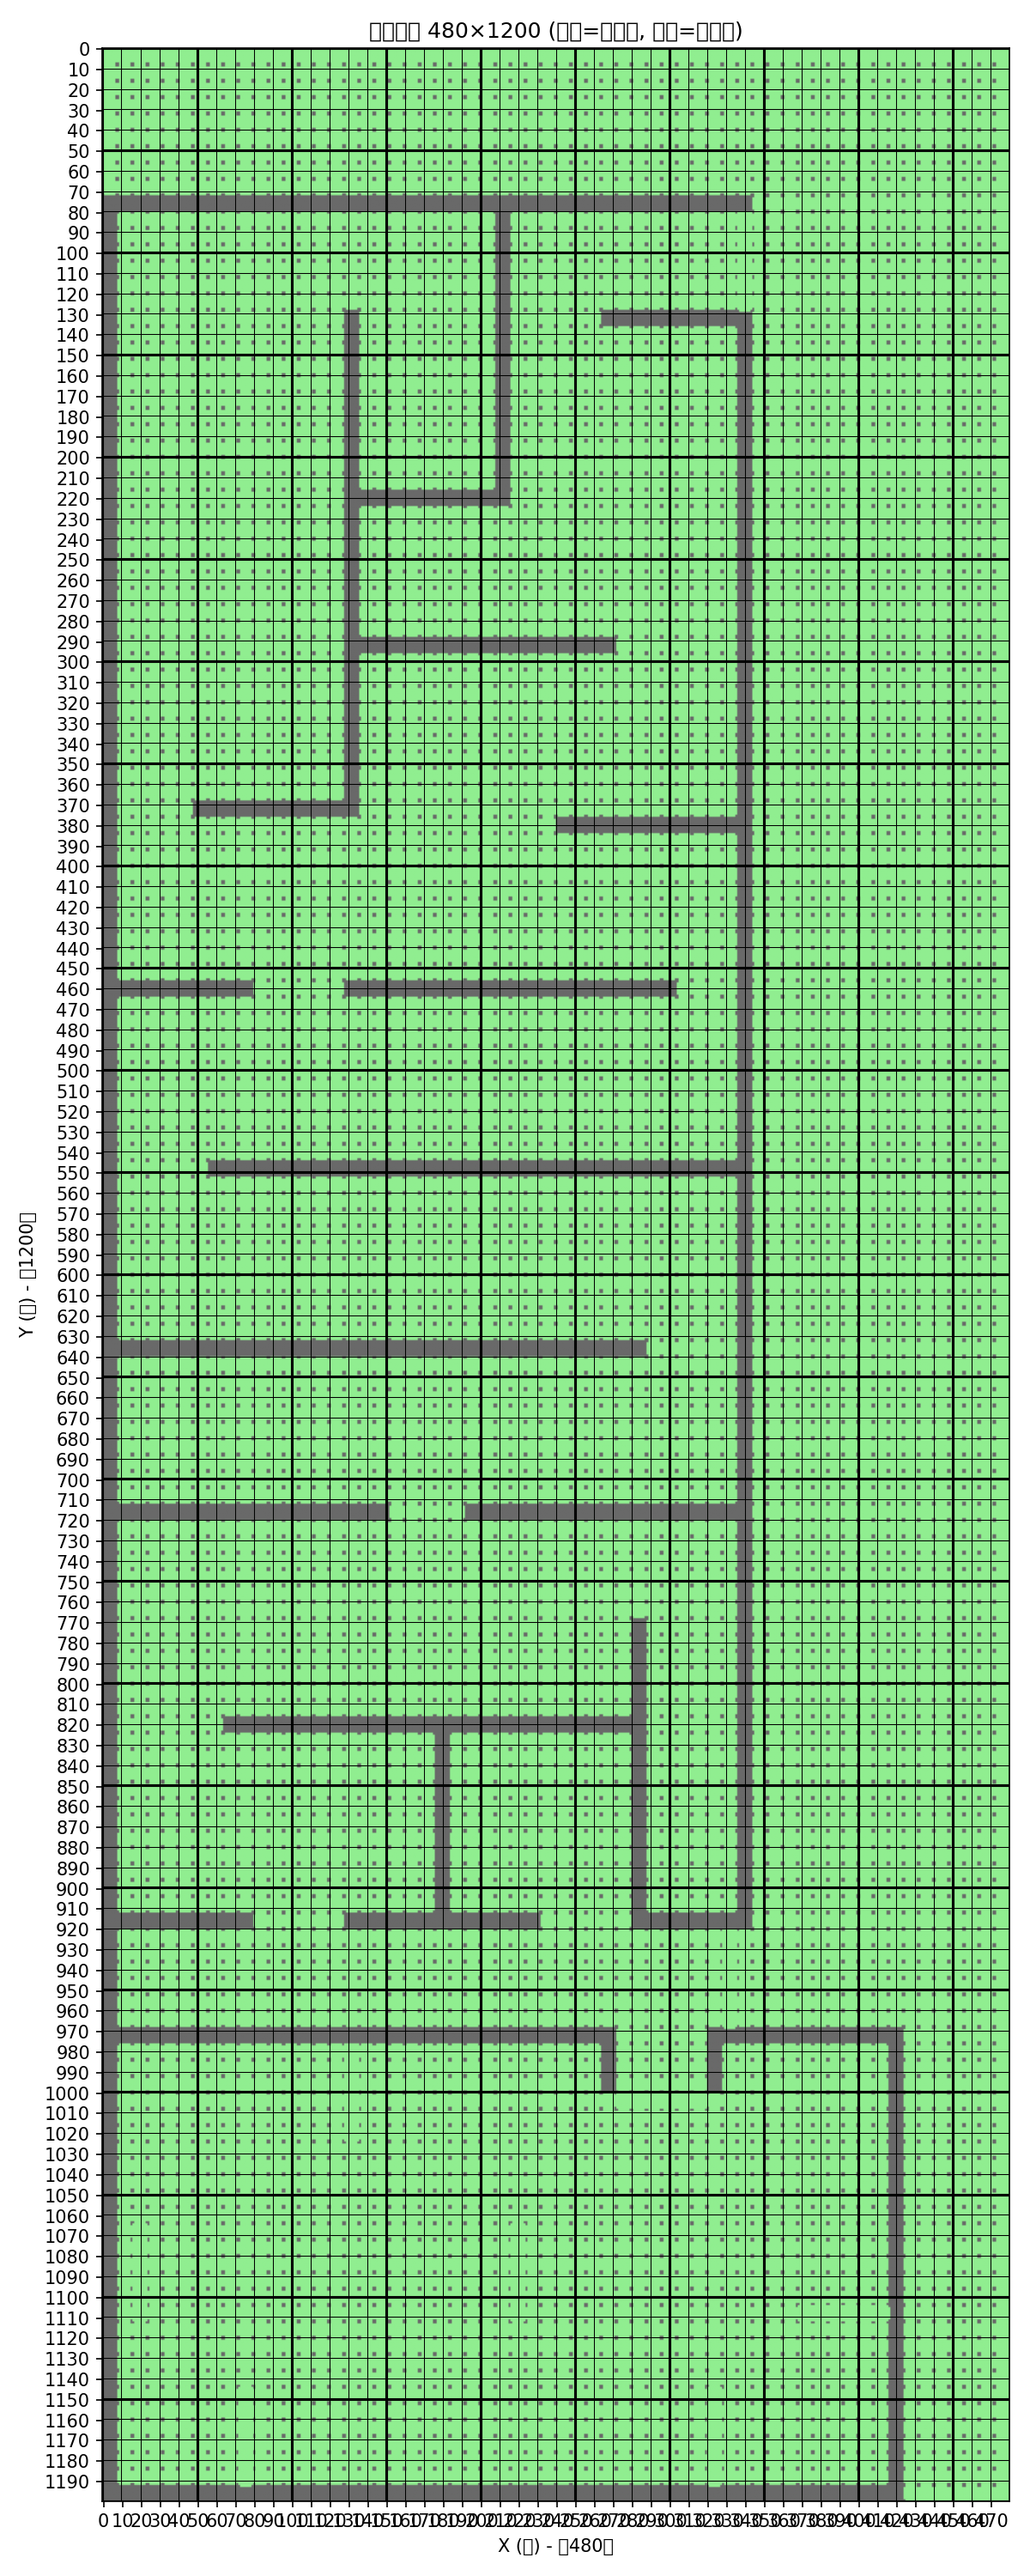
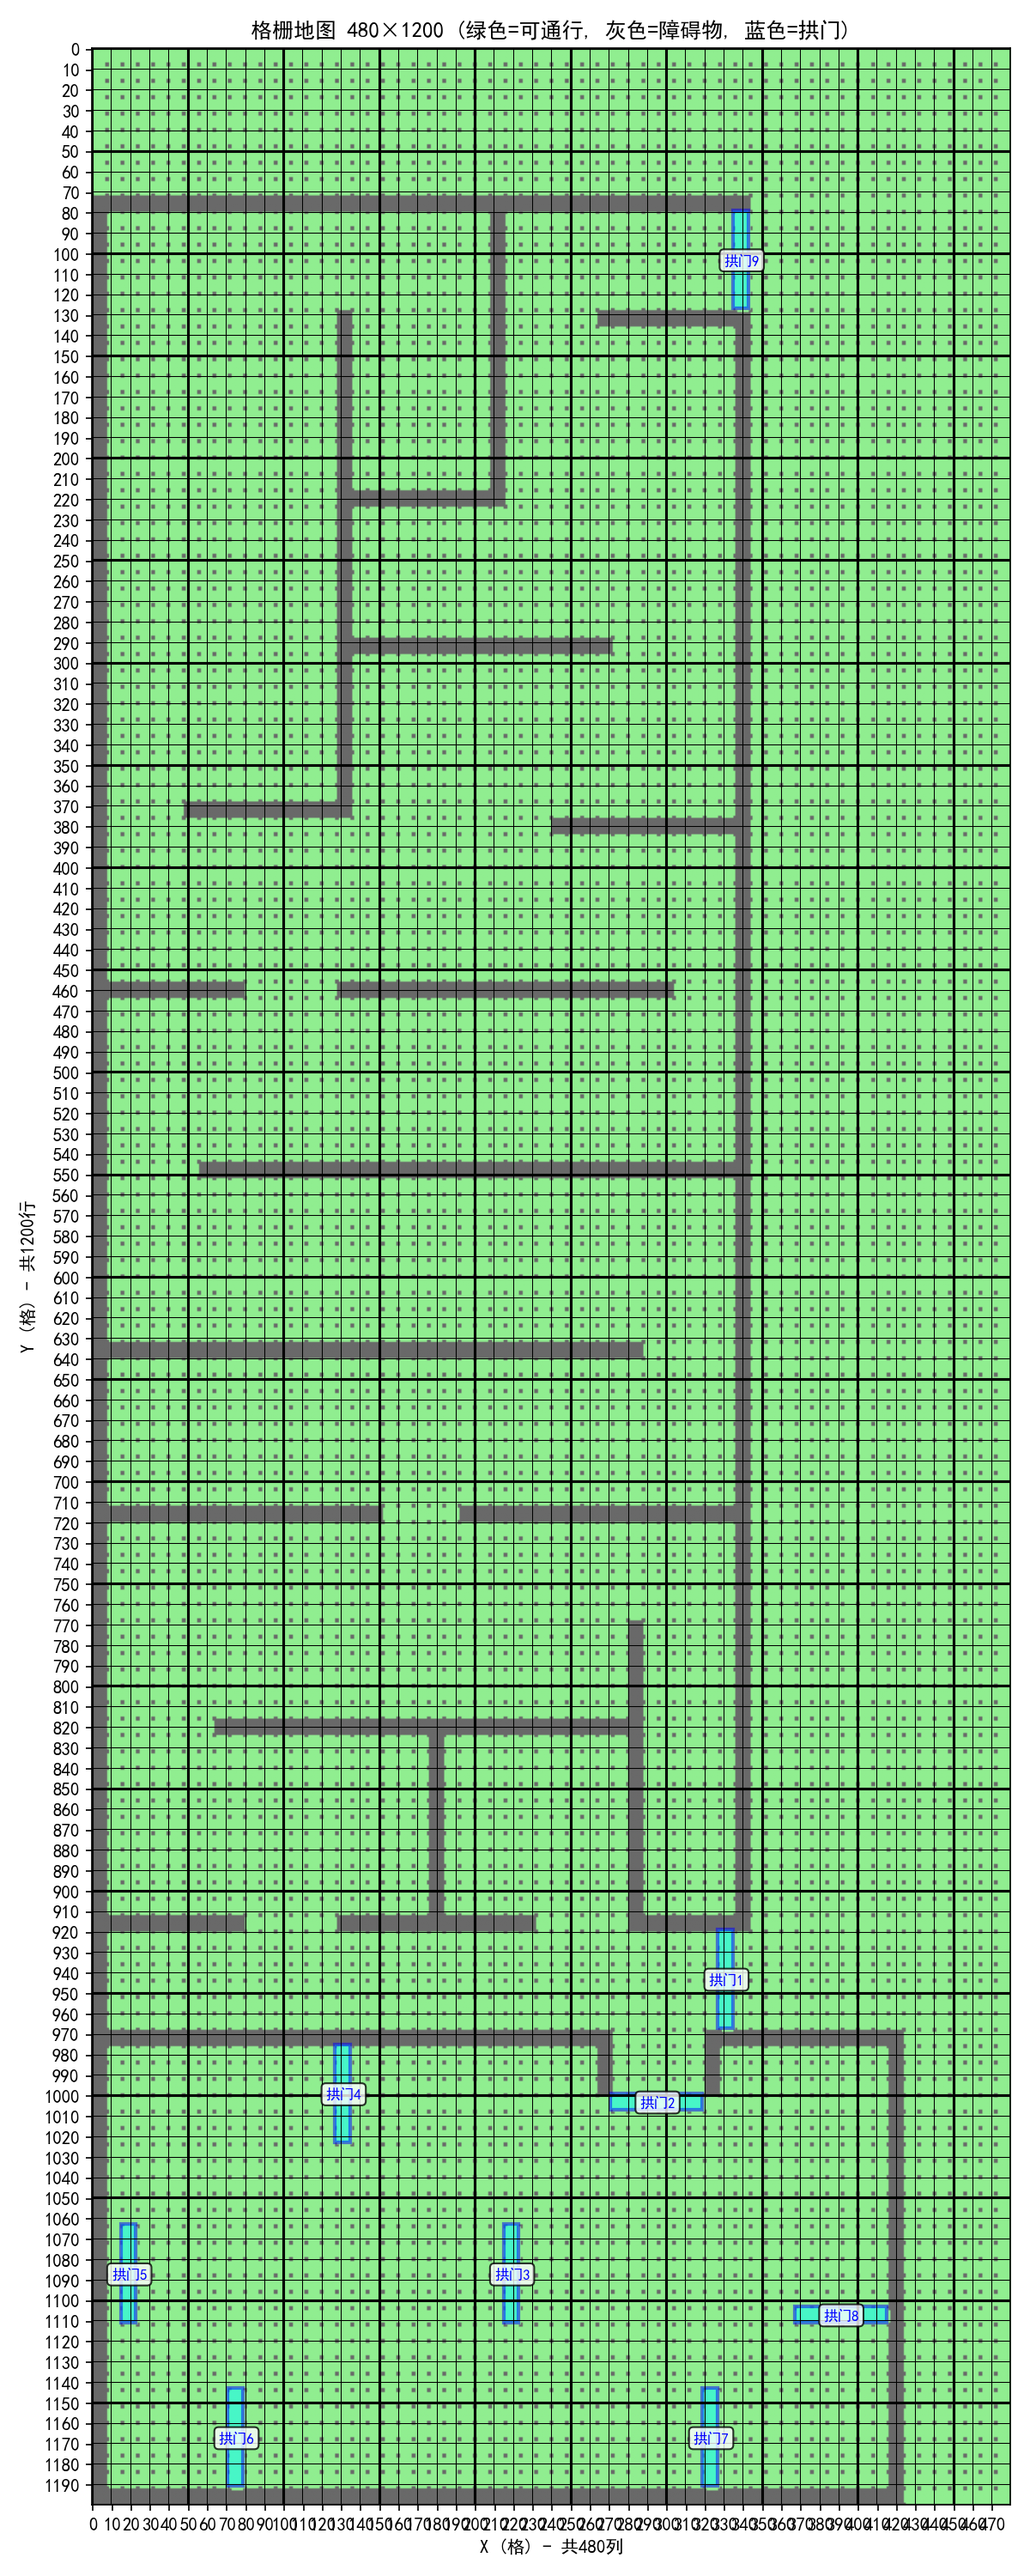
前端加入降落逻辑 前后端共享token

diff --git a/frontend/src/views/MainControl.vue b/frontend/src/views/MainControl.vue
@@ -212,6 +212,20 @@
                     云台复位
                   </el-button>
                 </div>
+
+                <!-- 降落测试按钮 -->
+                <div class="landing-buttons">
+                  <h4>降落测试</h4>
+                  <el-button type="success" @click="startLandingTest">
+                    开始降落测试
+                  </el-button>
+                  <el-button type="info" @click="getLandingStatusTest">
+                    获取降落状态
+                  </el-button>
+                  <el-button type="danger" @click="cancelLandingTest">
+                    取消降落
+                  </el-button>
+                </div>
               </div>
             </el-tab-pane>
           </el-tabs>
@@ -251,9 +265,10 @@
 </template>
 
 <script setup>
-import { ref, onMounted, onUnmounted } from 'vue'
-import { ElMessage } from 'element-plus'
-import { officialServerAPI, WebSocketManager, CONTROL_CHANNELS, CONTROL_VALUES } from '../services/officialAPI'
+import {onMounted, onUnmounted, ref} from 'vue'
+import {ElMessage} from 'element-plus'
+import {CONTROL_CHANNELS, officialServerAPI, WebSocketManager} from '../services/officialAPI'
+import {Camera, DataAnalysis, Monitor, Operation} from "@element-plus/icons-vue";
 
 // WebSocket管理
 const wsManager = new WebSocketManager()
@@ -373,9 +388,8 @@ const captureImage = async () => {
       ElMessage.error('未获取到认证token，请重新认证')
       return
     }
-    
-    const imageUrl = await officialServerAPI.captureImage(token)
-    capturedImage.value = imageUrl
+
+    capturedImage.value = await officialServerAPI.captureImage(token)
     ElMessage.success('图像抓拍成功')
   } catch (error) {
     ElMessage.error('图像抓拍失败：' + error.message)
@@ -389,6 +403,44 @@ const clearImage = () => {
   if (capturedImage.value) {
     URL.revokeObjectURL(capturedImage.value)
     capturedImage.value = null
+  }
+}
+
+// 开始降落测试
+const startLandingTest = async () => {
+  try {
+    const result = await officialServerAPI.startLanding(0)
+    if (result.status === 'success') {
+      ElMessage.success(result.message)
+    } else {
+      ElMessage.error(result.message)
+    }
+  } catch (error) {
+    ElMessage.error(error.message)
+  }
+}
+
+// 获取降落状态
+const getLandingStatusTest = async () => {
+  try {
+    const result = await officialServerAPI.getLandingStatus()
+    ElMessage.info(`降落状态: ${result.status}, 错误信息: ${result.error_message || '无'}`)
+  } catch (error) {
+    ElMessage.error(error.message)
+  }
+}
+
+// 取消降落
+const cancelLandingTest = async () => {
+  try {
+    const result = await officialServerAPI.cancelLanding()
+    if (result.status === 'success') {
+      ElMessage.success(result.message)
+    } else {
+      ElMessage.error(result.message)
+    }
+  } catch (error) {
+    ElMessage.error(error.message)
   }
 }
 
@@ -491,6 +543,22 @@ onUnmounted(() => {
   gap: 10px;
   flex-wrap: wrap;
   margin-top: 20px;
+}
+
+.landing-buttons {
+  display: flex;
+  gap: 10px;
+  flex-wrap: wrap;
+  margin-top: 20px;
+  padding-top: 20px;
+  border-top: 1px solid #e4e7ed;
+}
+
+.landing-buttons h4 {
+  width: 100%;
+  margin-bottom: 10px;
+  font-size: 14px;
+  font-weight: 500;
 }
 
 .image-container {

diff --git a/frontend/src/services/officialAPI.js b/frontend/src/services/officialAPI.js
@@ -61,6 +61,38 @@ export const officialServerAPI = {
     } catch (error) {
       throw new Error("抓拍失败：" + error.message)
     }
+  },
+
+  // 开始降落
+  startLanding: async (targetArucoId = 0) => {
+    try {
+      const response = await officialAPI.post('/landing/start', {
+        target_aruco_id: targetArucoId
+      })
+      return response.data
+    } catch (error) {
+      throw new Error("开始降落失败：" + error.message)
+    }
+  },
+
+  // 获取降落状态
+  getLandingStatus: async () => {
+    try {
+      const response = await officialAPI.get('/landing/status')
+      return response.data
+    } catch (error) {
+      throw new Error("获取降落状态失败：" + error.message)
+    }
+  },
+
+  // 取消降落
+  cancelLanding: async () => {
+    try {
+      const response = await officialAPI.post('/landing/cancel')
+      return response.data
+    } catch (error) {
+      throw new Error("取消降落失败：" + error.message)
+    }
   }
 }
 

diff --git a/frontend/src/views/AuthView.vue b/frontend/src/views/AuthView.vue
@@ -27,6 +27,8 @@ import { ref } from 'vue'
 import { useRouter } from 'vue-router'
 import { ElMessage } from 'element-plus'
 import { officialServerAPI } from '../services/officialAPI'
+import { authAPI } from '../services/api'
+import {Key} from "@element-plus/icons-vue";
 
 const router = useRouter()
 
@@ -44,8 +46,11 @@ const handleLogin = async () => {
     // 保存token到localStorage
     localStorage.setItem('official_token', token)
     
+    // 将token传递给后端
+    await authAPI.setFrontendToken(token)
+    
     ElMessage.success('认证成功')
-    router.push('/control')
+    await router.push('/control')
   } catch (error) {
     ElMessage.error('认证失败：' + error.message)
   } finally {

diff --git a/frontend/src/services/api.js b/frontend/src/services/api.js
@@ -43,6 +43,14 @@ export const authAPI = {
   // 获取Token
   getToken: () => {
     return api.post('/api/auth/token')
+  },
+  
+  // 设置前端Token
+  setFrontendToken: (token, expiresIn = 7200) => {
+    return api.post('/api/auth/token/frontend', {
+      token,
+      expires_in: expiresIn
+    })
   }
 }
 

diff --git a/backend/app/services/landing_service.py b/backend/app/services/landing_service.py
@@ -224,7 +224,6 @@ class LandingService:
             logger.info("开始检测Aruco码")
             self.status = LandingStatus.DETECTING
             detection_count = 0
-            aruco_position = None
             
             while detection_count < self.detection_threshold:
                 logger.debug("正在捕获图像...")
@@ -234,7 +233,6 @@ class LandingService:
                     position = self._detect_aruco(image_data)
                     if position:
                         logger.info(f"检测到Aruco码，位置: {position}")
-                        aruco_position = position
                         detection_count += 1
                         self.monitor.record_detection(True)
                         logger.info(f"Aruco码检测计数: {detection_count}/{self.detection_threshold}")
@@ -369,7 +367,7 @@ class LandingService:
                         center_x = int((corner[0][0] + corner[1][0] + corner[2][0] + corner[3][0]) / 4)
                         center_y = int((corner[0][1] + corner[1][1] + corner[2][1] + corner[3][1]) / 4)
                         logger.info(f"找到目标Aruco码ID: {self.target_aruco_id}，中心坐标: ({center_x}, {center_y})")
-                        return (center_x, center_y)
+                        return center_x, center_y
                 logger.warning(f"未找到目标Aruco码ID: {self.target_aruco_id}")
             else:
                 logger.debug("未检测到任何Aruco码")
@@ -400,7 +398,7 @@ class LandingService:
         control_x = max(CONTROL_MIN, min(CONTROL_MAX, control_x))
         control_y = max(CONTROL_MIN, min(CONTROL_MAX, control_y))
         
-        return (int(control_x), int(control_y))
+        return int(control_x), int(control_y)
     
     def _calculate_descend_control(self) -> int:
         """计算下降控制量

diff --git a/backend/app/api/auth.py b/backend/app/api/auth.py
@@ -1,4 +1,4 @@
-from fastapi import APIRouter
+from fastapi import APIRouter, Body
 
 from backend.app.services.auth_service import TokenService
 
@@ -14,5 +14,22 @@ async def get_token():
     try:
         token = TokenService.get_token()
         return {"code": "1", "data": {"token": token}, "msg": "获取Token成功"}
+    except Exception as e:
+        return {"code": "0", "msg": str(e)}
+
+@router.post("/token/frontend")
+async def set_frontend_token(token: str = Body(..., description="前端传递的Token"), expires_in: int = Body(7200, description="Token有效期（秒）")):
+    """设置前端传递的Token
+    
+    Args:
+        token: 前端传递的Token字符串
+        expires_in: Token有效期（秒），默认7200秒（2小时）
+        
+    Returns:
+        dict: 操作结果
+    """
+    try:
+        TokenService.set_frontend_token(token, expires_in)
+        return {"code": "1", "msg": "Token设置成功"}
     except Exception as e:
         return {"code": "0", "msg": str(e)}

diff --git a/backend/app/services/auth_service.py b/backend/app/services/auth_service.py
@@ -104,3 +104,13 @@ class TokenService:
             return token
         else:
             raise Exception(f"获取Token失败：{result.get('msg', '未知错误')}")
+    
+    @classmethod
+    def set_frontend_token(cls, token: str, expires_in: int = 7200):
+        """设置前端传递的Token
+        
+        Args:
+            token: 前端传递的Token字符串
+            expires_in: Token有效期（秒），默认7200秒（2小时）
+        """
+        cls._save_token(token, expires_in)

diff --git a/backend/convert_grid_image.py b/backend/convert_grid_image.py
@@ -336,7 +336,7 @@ if __name__ == "__main__":
     import sys
     
     # 默认参数
-    default_input = r"d:\pythonCodes\air-ground\backend\grid-1775449079133_upscaled_3.0x.png"
+    default_input = r"C:\Users\34650\Desktop\air-ground-coordination\backend\grid-1775449079133_upscaled_3.0x.png"
     default_cols = 480
     default_rows = 1200
     

diff --git a/backend/app/api/__init__.py b/backend/app/api/__init__.py
@@ -1,5 +1,5 @@
 from fastapi import APIRouter
-from backend.app.api import auth, capture, ws, landing, control
+from app.api import auth, capture, ws, landing, control
 
 api_router = APIRouter()
 
